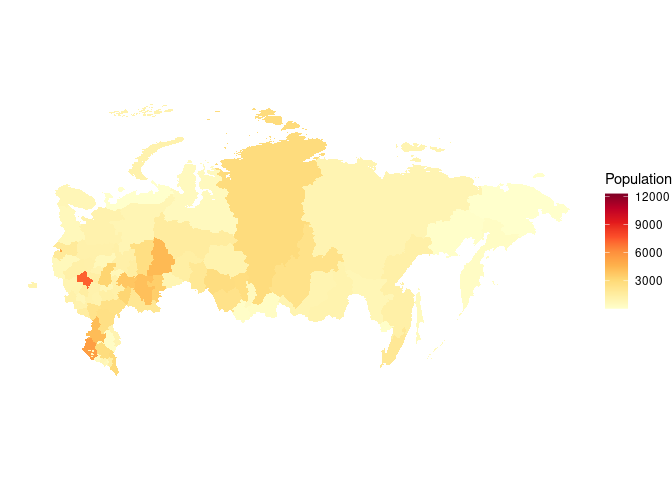
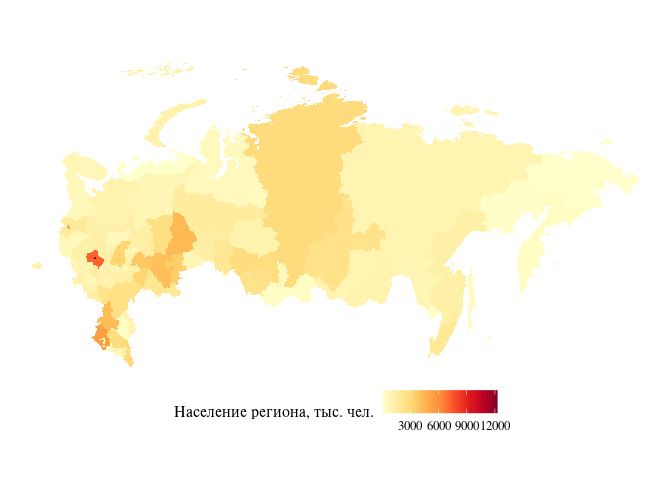
Minor upds

diff --git a/rus_map.md b/rus_map.md
@@ -12,39 +12,8 @@
 
 ``` r
 library(tidyverse)    # манипуляции с данными и визуализация
-```
-
-    ## ── Attaching core tidyverse packages ──────────────────────── tidyverse 2.0.0 ──
-    ## ✔ dplyr     1.1.4     ✔ readr     2.1.4
-    ## ✔ forcats   1.0.0     ✔ stringr   1.5.1
-    ## ✔ ggplot2   3.4.4     ✔ tibble    3.2.1
-    ## ✔ lubridate 1.9.3     ✔ tidyr     1.3.0
-    ## ✔ purrr     1.0.2     
-    ## ── Conflicts ────────────────────────────────────────── tidyverse_conflicts() ──
-    ## ✖ dplyr::filter() masks stats::filter()
-    ## ✖ dplyr::lag()    masks stats::lag()
-    ## ℹ Use the conflicted package (<http://conflicted.r-lib.org/>) to force all conflicts to become errors
-
-``` r
 library(geodata)      # для доступа к данным о границах
-```
-
-    ## Загрузка требуемого пакета: terra
-    ## terra 1.7.71
-    ## 
-    ## Присоединяю пакет: 'terra'
-    ## 
-    ## Следующий объект скрыт от 'package:tidyr':
-    ## 
-    ##     extract
-
-``` r
 library(sf)           # манипуляции с пространственными объектами
-```
-
-    ## Linking to GEOS 3.10.2, GDAL 3.4.1, PROJ 8.2.1; sf_use_s2() is TRUE
-
-``` r
 library(RColorBrewer) # цветовые схемы
 ```
 
@@ -185,7 +154,7 @@ ggplot(rus_reg_full) +
 
 ![](rus_map_files/figure-gfm/unnamed-chunk-9-1.png)<!-- -->
 
-Ещё можно по настраивать цветовые схемы:
+Ещё можно по настраивать цветовые схемы и поправлять прочие настройки:
 
 ``` r
 ggplot(rus_reg_full) + 
@@ -201,8 +170,9 @@ ggplot(rus_reg_full) +
 ggplot(rus_reg_full) + 
   geom_sf(aes(fill = population), col = "transparent") + 
   coord_sf(datum = NA) + 
-  scale_fill_gradientn("Population", colors = brewer.pal(9, "YlOrRd")) + 
-  theme_void()
+  scale_fill_gradientn("Население региона, тыс. чел.", colors = brewer.pal(9, "YlOrRd")) + 
+  theme_void(base_size = 12, base_family = "Times") + 
+  theme(legend.position = "bottom")
 ```
 
 ![](rus_map_files/figure-gfm/unnamed-chunk-11-1.png)<!-- -->
